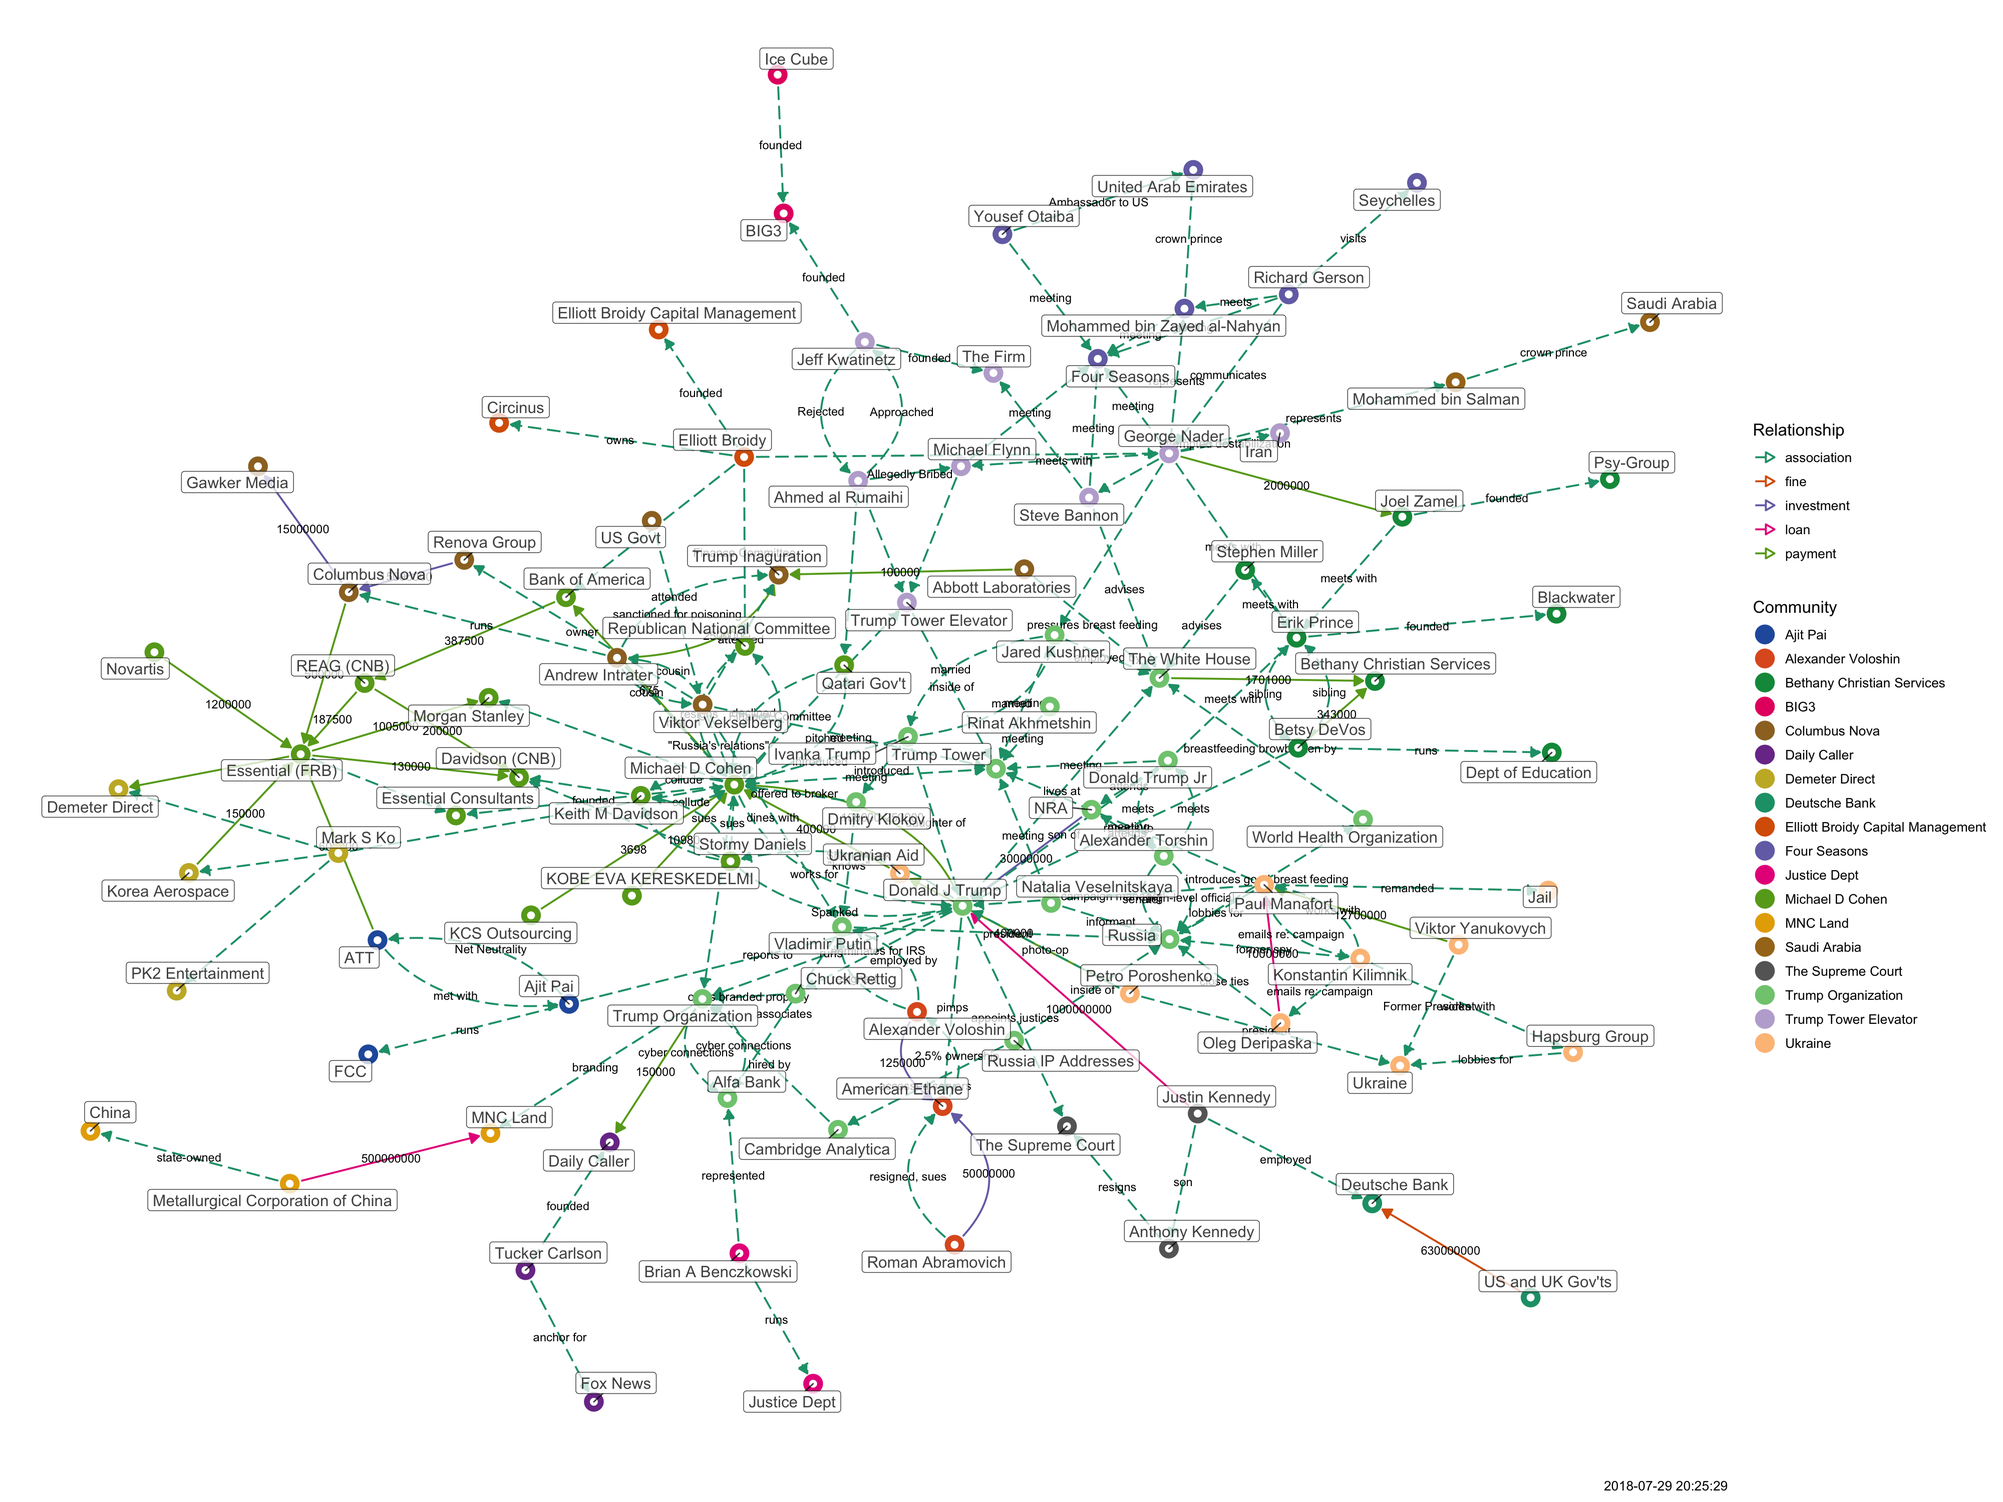
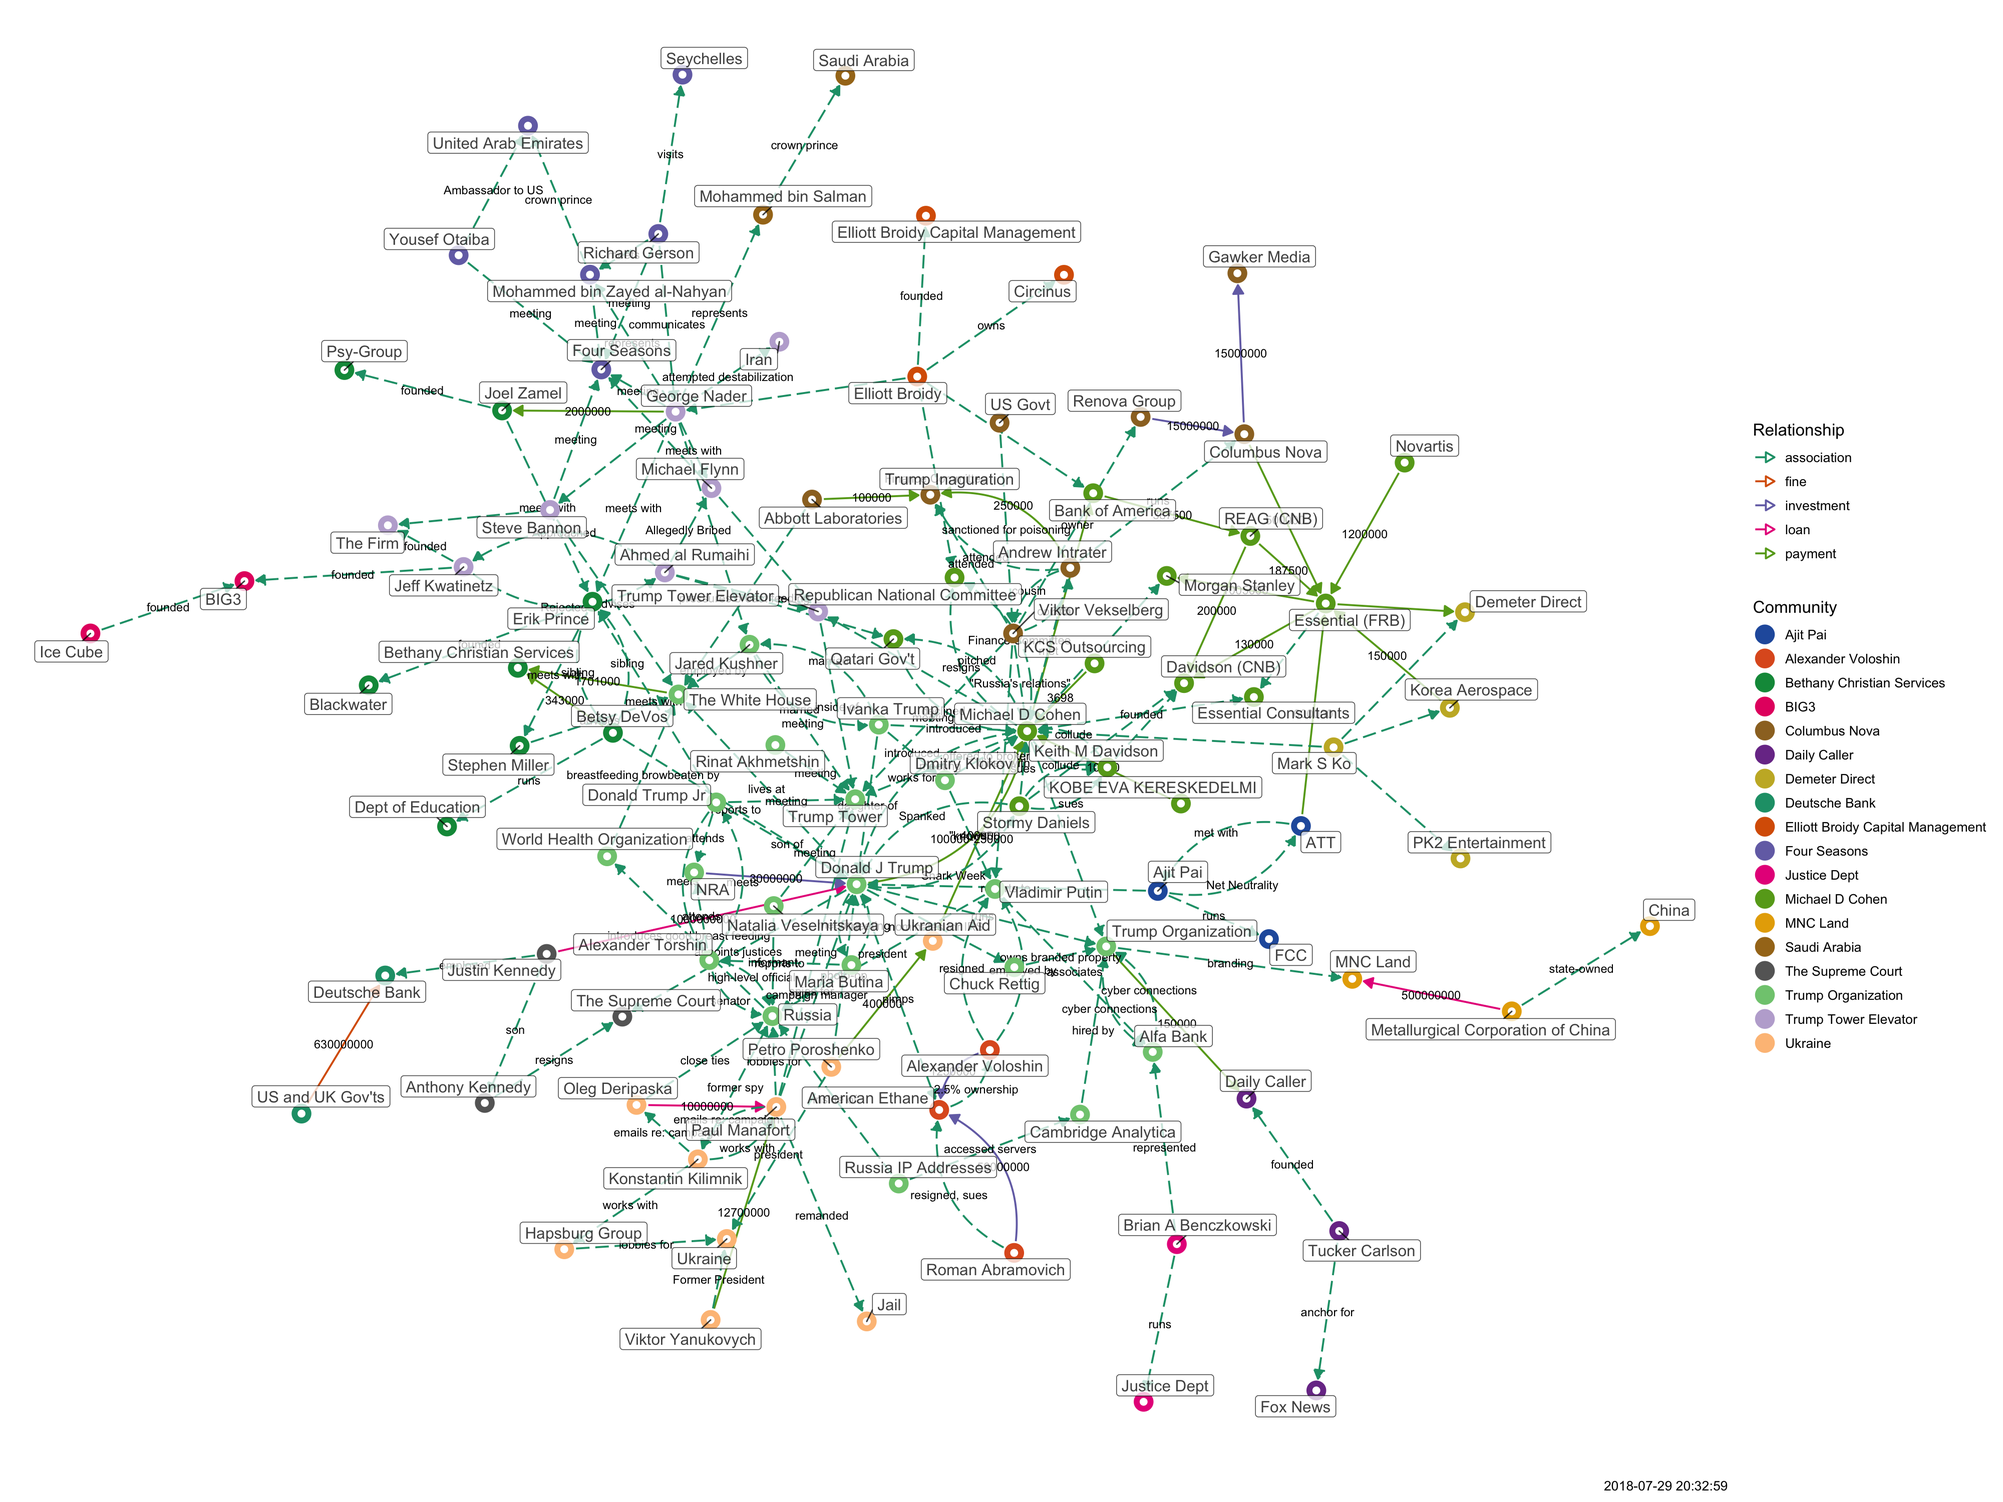
updated

diff --git a/docs/tangled-d3.html b/docs/tangled-d3.html
@@ -1143,20 +1143,11 @@ return function(){for(var n=0,e=0;e<t;++e)n+=Math.random();return n}},um=functio
 </head>
 <body style="background-color: white;">
 <div id="htmlwidget_container">
-<<<<<<< HEAD
-<div id="htmlwidget-5710a71deea7f0ac066d" class="forceNetwork html-widget" style="width:960px;height:500px;">
+<div id="htmlwidget-868ce659ae82825f3ef7" class="forceNetwork html-widget" style="width:960px;height:500px;">
 
 </div>
 </div>
-<script type="application/json" data-for="htmlwidget-5710a71deea7f0ac066d">{"x":{"links":{"source":[0,1,2,3,4,5,6,6,7,8,8,8,9,10,11,12,13,14,15,16,17,18,19,20,20,21,22,23,24,25,26,27,8,15,2,2,28,2,28,28,2,29,15,30,31,31,28,32,32,32,32,15,7,7,31,15,15,33,33,33,33,7,15,34,35,35,36,37,36,36,38,35,35,39,39,39,3,38,32,9,9,40,40,41,41,15,42,43,43,9,44,45,46,9,9,47,48,46,49,45,9,9,44,46,5,5,5,24,14,19,19,15,28,28,50,51,51,51,51,9,48,34,38,52,52,41,41,53,53,31,31,15,30,54,55,54,56,57,56,54,56,56,44,40,58,59,59,27,18,56,54,7,60,15,61,10,10,7,0,62,63,7,1,1,64,22,65,65,57,66,24,67,68,68,69,69,44,44,69,69],"target":[70,64,70,8,20,71,8,72,15,73,74,75,45,7,15,15,8,76,4,8,7,56,25,73,8,6,64,71,77,15,78,56,79,79,6,15,21,28,2,70,70,28,7,73,73,30,57,80,81,82,4,75,23,31,7,24,80,74,83,15,13,24,50,50,50,36,35,84,85,84,85,42,34,3,7,86,39,23,9,38,40,23,41,40,7,42,15,77,87,46,46,46,88,48,47,89,90,49,23,91,34,92,7,5,46,93,7,76,94,7,95,96,96,15,96,97,48,9,98,98,98,98,98,98,90,15,53,15,57,30,15,30,15,55,95,56,63,63,7,63,99,96,96,96,96,96,63,95,63,54,18,60,24,80,100,61,78,100,23,23,62,64,57,57,1,64,66,101,66,24,66,24,67,63,63,44,69,17,17,63],"colour":["red","blue","red","red","red","red","red","blue","red","red","red","red","red","blue","red","red","red","blue","red","red","blue","blue","red","red","red","blue","blue","red","red","red","blue","red","blue","blue","blue","blue","blue","blue","blue","blue","blue","blue","blue","blue","blue","blue","blue","blue","blue","blue","blue","blue","blue","blue","blue","blue","blue","blue","blue","blue","blue","blue","blue","blue","blue","blue","blue","blue","blue","blue","blue","blue","blue","blue","blue","blue","blue","blue","blue","blue","blue","blue","blue","blue","blue","blue","blue","blue","blue","blue","blue","blue","blue","blue","blue","blue","blue","blue","blue","blue","blue","blue","blue","blue","blue","blue","blue","blue","blue","blue","blue","blue","blue","blue","blue","blue","blue","blue","blue","blue","blue","blue","blue","blue","blue","blue","blue","blue","blue","blue","blue","blue","blue","blue","blue","blue","blue","blue","blue","blue","blue","blue","blue","blue","blue","blue","blue","blue","blue","blue","blue","blue","blue","blue","blue","blue","blue","blue","blue","blue","blue","blue","blue","blue","blue","blue","blue","blue","blue","blue","blue","blue","blue","blue","blue","blue","blue","blue","blue","blue"]},"nodes":{"name":["Abbott Laboratories","Alexander Voloshin","Andrew Intrater","ATT","Bank of America","Betsy DeVos","Columbus Nova","Donald J Trump","Essential (FRB)","George Nader","Justin Kennedy","KCS Outsourcing","KOBE EVA KERESKEDELMI","Korea Aerospace","Metallurgical Corporation of China","Michael D Cohen","Novartis","NRA","Oleg Deripaska","Petro Poroshenko","REAG (CNB)","Renova Group","Roman Abramovich","The White House","Trump Organization","Ukranian Aid","US and UK Gov'ts","Viktor Yanukovych","Viktor Vekselberg","US Govt","Keith M Davidson","Stormy Daniels","Elliott Broidy","Mark S Ko","Michael Flynn","Ahmed al Rumaihi","Jeff Kwatinetz","Ice Cube","Steve Bannon","Ajit Pai","Jared Kushner","Ivanka Trump","Qatari Gov't","Tucker Carlson","Donald Trump Jr","Joel Zamel","Erik Prince","Mohammed bin Salman","Mohammed bin Zayed al-Nahyan","Stephen Miller","Trump Tower Elevator","Richard Gerson","Yousef Otaiba","Dmitry Klokov","Konstantin Kilimnik","Hapsburg Group","Paul Manafort","Vladimir Putin","Rinat Akhmetshin","Natalia Veselnitskaya","Chuck Rettig","Anthony Kennedy","World Health Organization","Russia","American Ethane","Brian A Benczkowski","Alfa Bank","Cambridge Analytica","Russia IP Addresses","Alexander Torshin","Trump Inaguration","Bethany Christian Services","Gawker Media","Davidson (CNB)","Demeter Direct","Morgan Stanley","MNC Land","Daily Caller","Deutsche Bank","Essential Consultants","Republican National Committee","Elliott Broidy Capital Management","Circinus","PK2 Entertainment","BIG3","The Firm","FCC","Fox News","Blackwater","Saudi Arabia","United Arab Emirates","Psy-Group","Iran","Dept of Education","China","Ukraine","Trump Tower","Seychelles","Four Seasons","Jail","The Supreme Court","Justice Dept"],"group":["5","14","5","12","2","4","5","1","2","6","13","2","2","9","11","2","2","1","3","3","2","5","14","1","1","3","19","3","5","5","2","2","15","9","6","6","6","18","6","12","1","1","2","10","1","4","4","16","7","4","6","7","7","1","3","3","3","1","1","1","1","13","1","1","14","17","1","1","1","1","5","4","5","2","9","2","11","10","19","2","2","15","15","9","18","6","12","10","4","16","7","4","6","4","11","3","1","7","7","3","13","17"]},"options":{"NodeID":"name","Group":"group","colourScale":"d3.scaleOrdinal(d3.schemeCategory20);","fontSize":20,"fontFamily":"serif","clickTextSize":50,"linkDistance":50,"linkWidth":"function(d) { return Math.sqrt(d.value); }","charge":-100,"opacity":1,"zoom":true,"legend":false,"arrows":false,"nodesize":false,"radiusCalculation":" Math.sqrt(d.nodesize)+6","bounded":false,"opacityNoHover":1,"clickAction":null}},"evals":[],"jsHooks":[]}</script>
-<script type="application/htmlwidget-sizing" data-for="htmlwidget-5710a71deea7f0ac066d">{"viewer":{"width":450,"height":350,"padding":10,"fill":true},"browser":{"width":960,"height":500,"padding":10,"fill":true}}</script>
-=======
-<div id="htmlwidget-c3e12fe97a42d5157acb" class="forceNetwork html-widget" style="width:960px;height:500px;">
-
-</div>
-</div>
-<script type="application/json" data-for="htmlwidget-c3e12fe97a42d5157acb">{"x":{"links":{"source":[0,1,2,3,4,5,6,6,7,8,8,8,9,10,11,12,13,14,15,16,17,18,19,20,20,21,22,23,24,25,26,27,8,15,2,2,28,2,28,28,2,29,15,30,31,31,28,32,32,32,32,15,7,7,31,15,15,33,33,33,33,7,15,34,35,35,36,37,36,36,38,35,35,39,39,39,3,38,32,9,9,40,40,41,41,15,42,43,43,9,44,45,46,9,9,47,48,46,49,45,9,9,44,46,5,5,5,24,14,19,19,15,28,28,50,51,51,51,51,9,48,34,38,52,52,41,41,53,53,31,31,15,30,54,55,54,56,57,56,54,56,56,44,40,58,59,59,27,18,56,54,7,60,15,61,10,10,7,0,62,63,7,1,1,64,22,65,65,57,66,24,67,68,68,69,69,44,44,69,69],"target":[70,64,70,8,20,71,8,72,15,73,74,75,45,7,15,15,8,76,4,8,7,56,25,73,8,6,64,71,77,15,78,56,79,79,6,15,21,28,2,70,70,28,7,73,73,30,57,80,81,82,4,75,23,31,7,24,80,74,83,15,13,24,50,50,50,36,35,84,85,84,85,42,34,3,7,86,39,23,9,38,40,23,41,40,7,42,15,77,87,46,46,46,88,48,47,89,90,49,23,91,34,92,7,5,46,93,7,76,94,7,95,96,96,15,96,97,48,9,98,98,98,98,98,98,90,15,53,15,57,30,15,30,15,55,95,56,63,63,7,63,99,96,96,96,96,96,63,95,63,54,18,60,24,80,100,61,78,100,23,23,62,64,57,57,1,64,66,101,66,24,66,24,67,63,63,44,69,17,17,63],"colour":["red","blue","red","red","red","red","red","blue","red","red","red","red","red","blue","red","red","red","blue","red","red","blue","blue","red","red","red","blue","blue","red","red","red","blue","red","blue","blue","blue","blue","blue","blue","blue","blue","blue","blue","blue","blue","blue","blue","blue","blue","blue","blue","blue","blue","blue","blue","blue","blue","blue","blue","blue","blue","blue","blue","blue","blue","blue","blue","blue","blue","blue","blue","blue","blue","blue","blue","blue","blue","blue","blue","blue","blue","blue","blue","blue","blue","blue","blue","blue","blue","blue","blue","blue","blue","blue","blue","blue","blue","blue","blue","blue","blue","blue","blue","blue","blue","blue","blue","blue","blue","blue","blue","blue","blue","blue","blue","blue","blue","blue","blue","blue","blue","blue","blue","blue","blue","blue","blue","blue","blue","blue","blue","blue","blue","blue","blue","blue","blue","blue","blue","blue","blue","blue","blue","blue","blue","blue","blue","blue","blue","blue","blue","blue","blue","blue","blue","blue","blue","blue","blue","blue","blue","blue","blue","blue","blue","blue","blue","blue","blue","blue","blue","blue","blue","blue","blue","blue","blue","blue","blue","blue","blue"]},"nodes":{"name":["Abbott Laboratories","Alexander Voloshin","Andrew Intrater","ATT","Bank of America","Betsy DeVos","Columbus Nova","Donald J Trump","Essential (FRB)","George Nader","Justin Kennedy","KCS Outsourcing","KOBE EVA KERESKEDELMI","Korea Aerospace","Metallurgical Corporation of China","Michael D Cohen","Novartis","NRA","Oleg Deripaska","Petro Poroshenko","REAG (CNB)","Renova Group","Roman Abramovich","The White House","Trump Organization","Ukranian Aid","US and UK Gov'ts","Viktor Yanukovych","Viktor Vekselberg","US Govt","Keith M Davidson","Stormy Daniels","Elliott Broidy","Mark S Ko","Michael Flynn","Ahmed al Rumaihi","Jeff Kwatinetz","Ice Cube","Steve Bannon","Ajit Pai","Jared Kushner","Ivanka Trump","Qatari Gov't","Tucker Carlson","Donald Trump Jr","Joel Zamel","Erik Prince","Mohammed bin Salman","Mohammed bin Zayed al-Nahyan","Stephen Miller","Trump Tower Elevator","Richard Gerson","Yousef Otaiba","Dmitry Klokov","Konstantin Kilimnik","Hapsburg Group","Paul Manafort","Vladimir Putin","Rinat Akhmetshin","Natalia Veselnitskaya","Chuck Rettig","Anthony Kennedy","World Health Organization","Russia","American Ethane","Brian A Benczkowski","Alfa Bank","Cambridge Analytica","Russia IP Addresses","Alexander Torshin","Trump Inaguration","Bethany Christian Services","Gawker Media","Davidson (CNB)","Demeter Direct","Morgan Stanley","MNC Land","Daily Caller","Deutsche Bank","Essential Consultants","Republican National Committee","Elliott Broidy Capital Management","Circinus","PK2 Entertainment","BIG3","The Firm","FCC","Fox News","Blackwater","Saudi Arabia","United Arab Emirates","Psy-Group","Iran","Dept of Education","China","Ukraine","Trump Tower","Seychelles","Four Seasons","Jail","The Supreme Court","Justice Dept"],"group":["5","14","5","12","2","4","5","1","2","6","13","2","2","9","11","2","2","1","3","3","2","5","14","1","1","3","19","3","5","5","2","2","15","9","6","6","6","18","6","12","1","1","2","10","1","4","4","16","7","4","6","7","7","1","3","3","3","1","1","1","1","13","1","1","14","17","1","1","1","1","5","4","5","2","9","2","11","10","19","2","2","15","15","9","18","6","12","10","4","16","7","4","6","4","11","3","1","7","7","3","13","17"]},"options":{"NodeID":"name","Group":"group","colourScale":"d3.scaleOrdinal(d3.schemeCategory20);","fontSize":20,"fontFamily":"serif","clickTextSize":50,"linkDistance":50,"linkWidth":"function(d) { return Math.sqrt(d.value); }","charge":-100,"opacity":1,"zoom":true,"legend":false,"arrows":false,"nodesize":false,"radiusCalculation":" Math.sqrt(d.nodesize)+6","bounded":false,"opacityNoHover":1,"clickAction":null}},"evals":[],"jsHooks":[]}</script>
-<script type="application/htmlwidget-sizing" data-for="htmlwidget-c3e12fe97a42d5157acb">{"viewer":{"width":450,"height":350,"padding":10,"fill":true},"browser":{"width":960,"height":500,"padding":10,"fill":true}}</script>
->>>>>>> 51f86a17eb7c1c9ab85a07f7ccc50d316c3a2a2c
+<script type="application/json" data-for="htmlwidget-868ce659ae82825f3ef7">{"x":{"links":{"source":[0,1,2,3,4,5,6,6,7,8,8,8,9,10,11,12,13,14,15,16,17,18,19,20,20,21,22,23,24,25,26,27,8,15,2,2,28,2,28,28,2,29,15,30,31,31,28,32,32,32,32,15,7,7,31,15,15,33,33,33,33,7,15,34,35,35,36,37,36,36,38,35,35,39,39,39,3,38,32,9,9,40,40,41,41,15,42,43,43,9,44,45,46,9,9,47,48,46,49,45,9,9,44,46,5,5,5,24,14,19,19,15,28,28,50,51,51,51,51,9,48,34,38,52,52,41,41,53,53,31,31,15,30,54,55,54,56,57,56,54,56,56,44,40,58,59,59,27,18,56,54,7,60,15,61,10,10,7,0,62,63,7,1,1,64,22,65,65,57,66,24,67,68,68,69,7,69,69,70,70,44,44,70,70],"target":[71,64,71,8,20,72,8,73,15,74,75,76,45,7,15,15,8,77,4,8,7,56,25,74,8,6,64,72,78,15,79,56,80,80,6,15,21,28,2,71,71,28,7,74,74,30,57,81,82,83,4,76,23,31,7,24,81,75,84,15,13,24,50,50,50,36,35,85,86,85,86,42,34,3,7,87,39,23,9,38,40,23,41,40,7,42,15,78,88,46,46,46,89,48,47,90,91,49,23,92,34,93,7,5,46,94,7,77,95,7,96,97,97,15,97,98,48,9,99,99,99,99,99,99,91,15,53,15,57,30,15,30,15,55,96,56,63,63,7,63,100,97,97,97,97,97,63,96,63,54,18,60,24,81,101,61,79,101,23,23,62,64,57,57,1,64,66,102,66,24,66,24,67,63,7,69,63,70,63,44,70,17,17,63],"colour":["red","blue","red","red","red","red","red","blue","red","red","red","red","red","blue","red","red","red","blue","red","red","blue","blue","red","red","red","blue","blue","red","red","red","blue","red","blue","blue","blue","blue","blue","blue","blue","blue","blue","blue","blue","blue","blue","blue","blue","blue","blue","blue","blue","blue","blue","blue","blue","blue","blue","blue","blue","blue","blue","blue","blue","blue","blue","blue","blue","blue","blue","blue","blue","blue","blue","blue","blue","blue","blue","blue","blue","blue","blue","blue","blue","blue","blue","blue","blue","blue","blue","blue","blue","blue","blue","blue","blue","blue","blue","blue","blue","blue","blue","blue","blue","blue","blue","blue","blue","blue","blue","blue","blue","blue","blue","blue","blue","blue","blue","blue","blue","blue","blue","blue","blue","blue","blue","blue","blue","blue","blue","blue","blue","blue","blue","blue","blue","blue","blue","blue","blue","blue","blue","blue","blue","blue","blue","blue","blue","blue","blue","blue","blue","blue","blue","blue","blue","blue","blue","blue","blue","blue","blue","blue","blue","blue","blue","blue","blue","blue","blue","blue","blue","blue","blue","blue","blue","blue","blue","blue","blue","blue","blue","blue","blue","blue"]},"nodes":{"name":["Abbott Laboratories","Alexander Voloshin","Andrew Intrater","ATT","Bank of America","Betsy DeVos","Columbus Nova","Donald J Trump","Essential (FRB)","George Nader","Justin Kennedy","KCS Outsourcing","KOBE EVA KERESKEDELMI","Korea Aerospace","Metallurgical Corporation of China","Michael D Cohen","Novartis","NRA","Oleg Deripaska","Petro Poroshenko","REAG (CNB)","Renova Group","Roman Abramovich","The White House","Trump Organization","Ukranian Aid","US and UK Gov'ts","Viktor Yanukovych","Viktor Vekselberg","US Govt","Keith M Davidson","Stormy Daniels","Elliott Broidy","Mark S Ko","Michael Flynn","Ahmed al Rumaihi","Jeff Kwatinetz","Ice Cube","Steve Bannon","Ajit Pai","Jared Kushner","Ivanka Trump","Qatari Gov't","Tucker Carlson","Donald Trump Jr","Joel Zamel","Erik Prince","Mohammed bin Salman","Mohammed bin Zayed al-Nahyan","Stephen Miller","Trump Tower Elevator","Richard Gerson","Yousef Otaiba","Dmitry Klokov","Konstantin Kilimnik","Hapsburg Group","Paul Manafort","Vladimir Putin","Rinat Akhmetshin","Natalia Veselnitskaya","Chuck Rettig","Anthony Kennedy","World Health Organization","Russia","American Ethane","Brian A Benczkowski","Alfa Bank","Cambridge Analytica","Russia IP Addresses","Maria Butina","Alexander Torshin","Trump Inaguration","Bethany Christian Services","Gawker Media","Davidson (CNB)","Demeter Direct","Morgan Stanley","MNC Land","Daily Caller","Deutsche Bank","Essential Consultants","Republican National Committee","Elliott Broidy Capital Management","Circinus","PK2 Entertainment","BIG3","The Firm","FCC","Fox News","Blackwater","Saudi Arabia","United Arab Emirates","Psy-Group","Iran","Dept of Education","China","Ukraine","Trump Tower","Seychelles","Four Seasons","Jail","The Supreme Court","Justice Dept"],"group":["5","14","5","12","2","4","5","1","2","6","13","2","2","9","11","2","2","1","3","3","2","5","14","1","1","3","19","3","5","5","2","2","15","9","6","6","6","18","6","12","1","1","2","10","1","4","4","16","7","4","6","7","7","1","3","3","3","1","1","1","1","13","1","1","14","17","1","1","1","1","1","5","4","5","2","9","2","11","10","19","2","2","15","15","9","18","6","12","10","4","16","7","4","6","4","11","3","1","7","7","3","13","17"]},"options":{"NodeID":"name","Group":"group","colourScale":"d3.scaleOrdinal(d3.schemeCategory20);","fontSize":20,"fontFamily":"serif","clickTextSize":50,"linkDistance":50,"linkWidth":"function(d) { return Math.sqrt(d.value); }","charge":-100,"opacity":1,"zoom":true,"legend":false,"arrows":false,"nodesize":false,"radiusCalculation":" Math.sqrt(d.nodesize)+6","bounded":false,"opacityNoHover":1,"clickAction":null}},"evals":[],"jsHooks":[]}</script>
+<script type="application/htmlwidget-sizing" data-for="htmlwidget-868ce659ae82825f3ef7">{"viewer":{"width":450,"height":350,"padding":10,"fill":true},"browser":{"width":960,"height":500,"padding":10,"fill":true}}</script>
 </body>
 </html>
